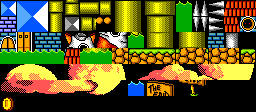
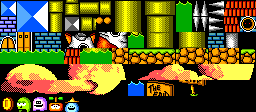
Enemies, plus rendering broken

Changed region(s): [[0.0625, 0.8571, 0.3125, 1.0]]

diff --git a/src/game.c b/src/game.c
@@ -7,6 +7,7 @@
 #include "player.h"
 #include "info.h"
 #include "coin.h"
+#include "enemy.h"
 
 #include "engine/sys.h"
 #include "engine/graph.h"
@@ -19,10 +20,12 @@
 
 // Object counts
 #define COIN_COUNT 16
+#define ENEMY_COUNT 16
 
 // Game objects
 static PLAYER player;
 static COIN coins[COIN_COUNT];
+static ENEMY enemies[ENEMY_COUNT];
 
 
 // Draw coins
@@ -51,6 +54,12 @@ static void game_update() {
         coin_player_collision(&player, &coins[i]);
     }
 
+    // Update enemies
+    for(i=0; i < ENEMY_COUNT; ++ i) {
+
+        enemy_update(&enemies[i]);
+    }
+
     // Update info
     info_update();
 }
@@ -67,6 +76,12 @@ static void game_pre_draw() {
         coin_pre_draw(&coins[i]);
     }
 
+     // Pre-draw enemies
+    for(; i < ENEMY_COUNT; ++ i) {
+
+        enemy_pre_draw(&enemies[i]);
+    }
+
     // Pre-draw moving objects
     pl_pre_draw(&player);
 }
@@ -74,8 +89,16 @@ static void game_pre_draw() {
 
 // Draw
 static void game_draw() {
+    
+    short i = 0;
 
-    // Draw moving objects
+    // Draw enemies
+    for(; i < ENEMY_COUNT; ++ i) {
+
+        enemy_draw(&enemies[i]);
+    }
+
+    // Draw player
     pl_draw(&player);
 
     // Draw changing info
@@ -101,21 +124,15 @@ static void game_loop() {
 // Initialize
 void game_init() {
 
-    short i = 0;
-
     // Initialize components
     stage_init();
     pl_init();
     info_init();
     coin_init();
+    enemy_init();
 
-    // Reset coins
-    for(; i < COIN_COUNT; ++ i) {
-
-        coins[i].pos = vec2(-1,-1);
-        coins[i].exist = false;
-        coins[i].die = false;
-    }
+    // Reset
+    game_reset();
 
     // Load default map
     stage_load(1);
@@ -153,6 +170,21 @@ void game_add_coin(VEC2 pos) {
 }
 
 
+// Add an enemy
+void game_add_enemy(VEC2 pos, char type) {
+
+    short i = 0;
+    for(; i < ENEMY_COUNT; ++ i) {
+
+        if(!enemies[i].exist) {
+
+            enemy_create(&enemies[i], pos, type);
+            break;
+        }
+    }
+}
+
+
 // Reset game
 void game_reset() {
 
@@ -162,6 +194,11 @@ void game_reset() {
         coins[i].pos = vec2(-1,-1);
         coins[i].exist = false;
         coins[i].die = false;
+    }
+
+    for(i=0; i < ENEMY_COUNT; ++ i) {
+
+        enemies[i].exist = false;
     }
 }
 

diff --git a/src/enemy.c b/src/enemy.c
@@ -1,0 +1,74 @@
+// Enemy (source)
+// (c) 2018 Jani Nykänen
+
+#include "enemy.h"
+
+#include "engine/graph.h"
+
+#include "stdlib.h"
+#include "math.h"
+
+// Bitmaps
+static BITMAP* bmpEnemies;
+
+
+// Initialize enemies
+void enemy_init() {
+
+    // Load bitmaps
+    bmpEnemies = load_bitmap("ASSETS/BITMAPS/ENEMIES.BIN");
+}
+
+
+// Create an enemy
+void enemy_create(ENEMY* e, VEC2 pos, char type) {
+
+    e->spr = create_sprite(16,16);
+    e->pos = pos;
+    e->pos.x *= 100;
+    e->pos.y *= 100;
+    e->type = type;
+    e->spr.row = type;
+    e->spr.frame = 0;
+    e->speed = vec2(0,0);
+    e->target = vec2(0,0);
+
+    e->dir = false;
+    e->exist = true;
+}
+
+
+// Update an enemy
+void enemy_update(ENEMY* e) {
+
+    if(!e->exist) return;
+
+}
+
+
+// Pre-draw an enemy
+void enemy_pre_draw(ENEMY* e) {
+
+    short ex, ey;
+
+    if(!e->exist) return;
+
+    ex = e->pos.x / 100;
+    ey = e->pos.y / 100;
+
+    fill_rect(ex-8,ey-16, 16, 16, 0);
+}
+
+
+// Draw
+void enemy_draw(ENEMY* e) {
+    
+    short ex, ey;
+
+    if(!e->exist) return;
+
+    ex = e->pos.x / 100;
+    ey = e->pos.y / 100;
+
+    spr_draw(&e->spr, bmpEnemies, ex-8,ey-16, e->dir ? FLIP_H : FLIP_NONE);
+}

diff --git a/src/enemy.h b/src/enemy.h
@@ -1,0 +1,41 @@
+// Enemy (header)
+// (c) 2018 Jani Nykänen
+
+#ifndef __ENEMY__
+#define __ENEMY__
+
+#include "engine/vector.h"
+#include "engine/sprite.h"
+
+#include "stdbool.h"
+
+// Enemy type
+typedef struct {
+
+    VEC2 pos;
+    VEC2 speed;
+    VEC2 target;
+    char type;
+    SPRITE spr;
+
+    bool exist;
+    bool dir;
+}
+ENEMY;
+
+// Initialize enemies
+void enemy_init();
+
+// Create an enemy
+void enemy_create(ENEMY* e, VEC2 pos, char type);
+
+// Update an enemy
+void enemy_update(ENEMY* e);
+
+// Pre-draw an enemy
+void enemy_pre_draw(ENEMY* e);
+
+// Draw an enemy
+void enemy_draw(ENEMY* e);
+
+#endif // __ENEMY__

diff --git a/src/stage.c b/src/stage.c
@@ -94,6 +94,14 @@ void stage_load(unsigned short index) {
                     game_add_coin(vec2(x * 16, y * 16 -8 ));
                     break;
 
+                case 98:
+                case 99:
+                case 100:
+                case 101:
+
+                    game_add_enemy(vec2(x * 16 +8, y * 16 -8 +16), t-98);
+                    break;
+
                 default: 
                     break;
                 }

diff --git a/src/player.c b/src/player.c
@@ -15,7 +15,7 @@
 static BITMAP* bmpPlayer;
 
 // Constants
-static const short H_SPEED = 60;
+static const short H_SPEED = 80;
 static const short WALL_H_SPEED = 160;
 static const short V_SPEED = 140;
 static const short H_ACC = 6;

diff --git a/src/game.h b/src/game.h
@@ -15,6 +15,9 @@ void game_redraw();
 // Add a coin
 void game_add_coin(VEC2 pos);
 
+// Add an enemy
+void game_add_enemy(VEC2 pos, char type);
+
 // Reset game
 void game_reset();
 

diff --git a/src/engine/sys.c b/src/engine/sys.c
@@ -18,6 +18,7 @@ static const unsigned short FRAME_WAIT = 0;
 // Is running
 static bool isRunning;
 
+
 // Update function
 static void (*fnUpdate)(void) = NULL;
 
